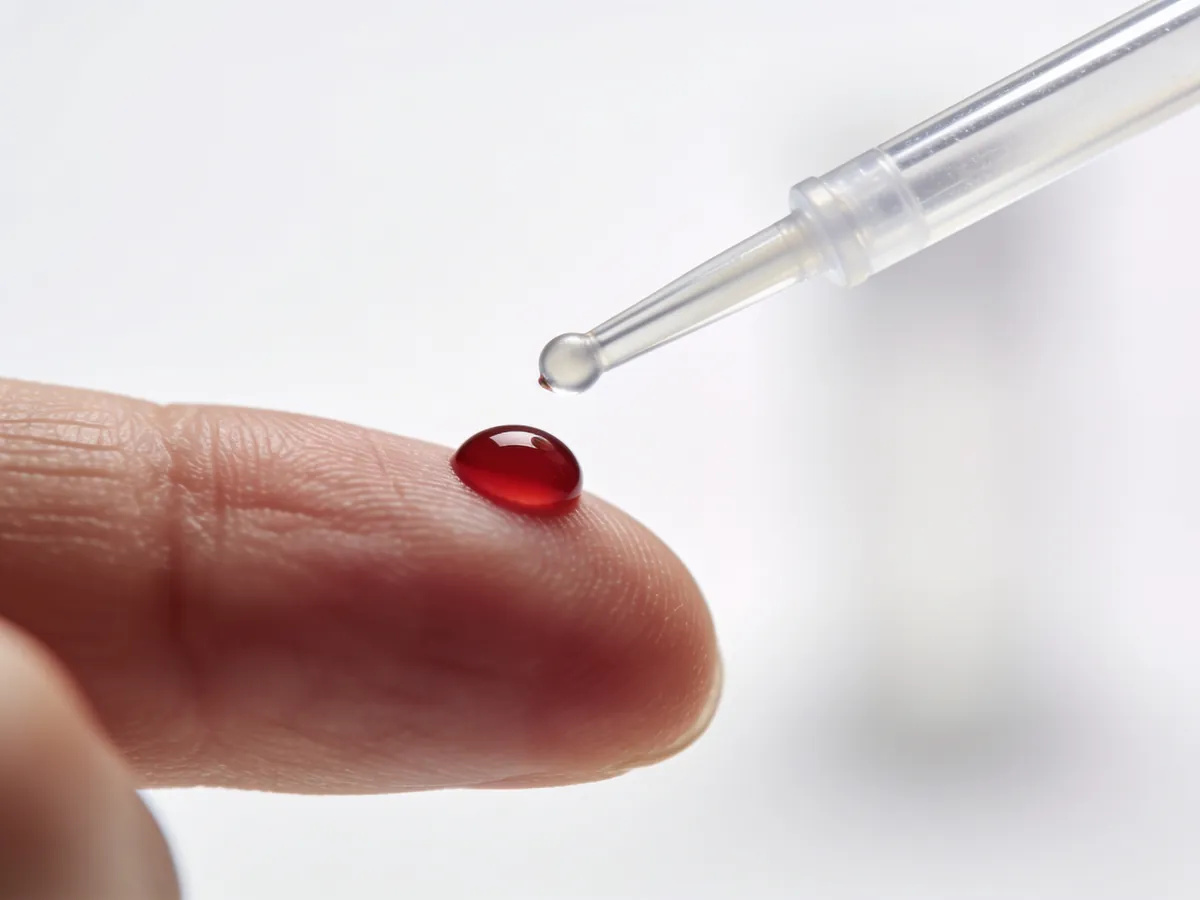
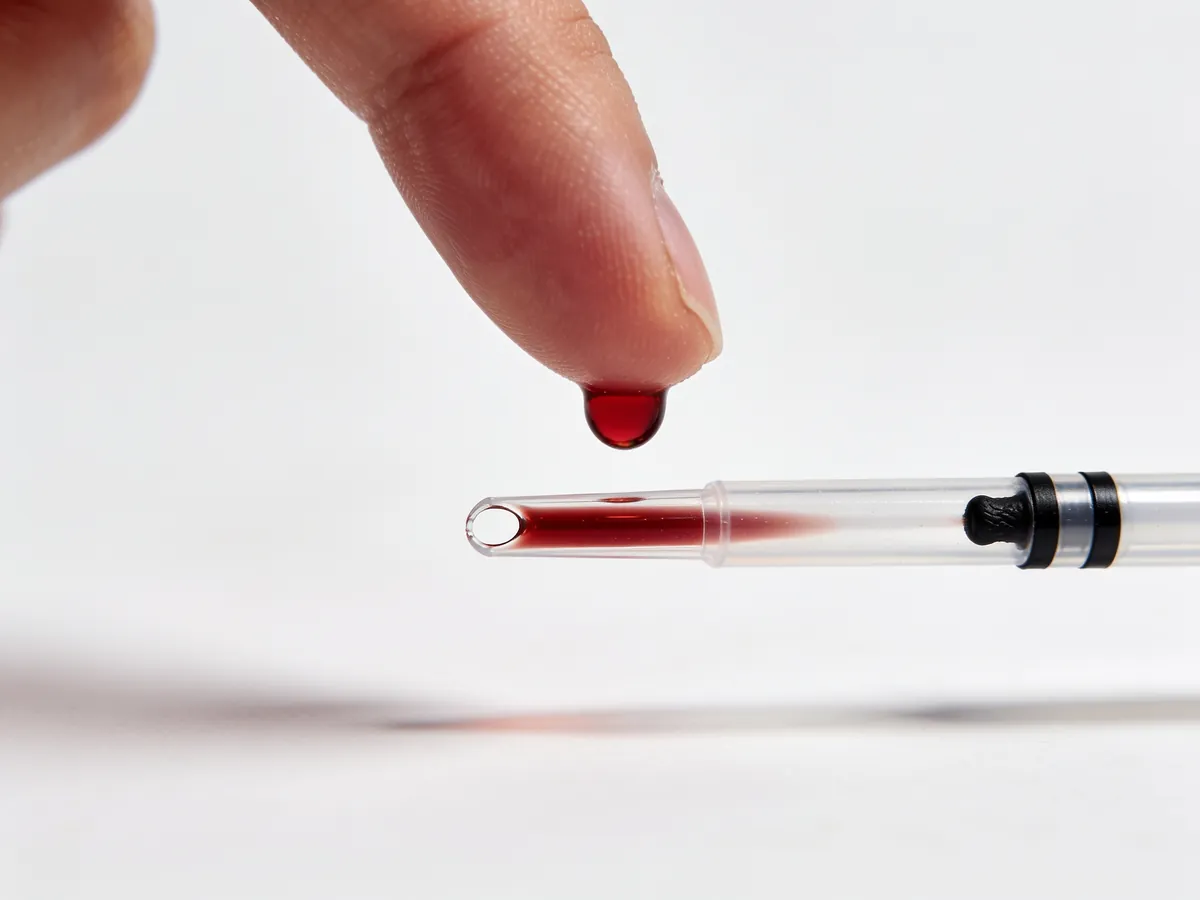
Passo a passo fiel ao guia do fabricante e foto da gota corrigida
- 8 passos conforme o guia do usuário do CardioChek PA: chip MEMo no topo,
  tira até APPLY SAMPLE, mãos lavadas e aquecidas, álcool, lanceta na
  lateral da ponta do dedo, primeira gota descartada, capilar até a faixa
  preta, aplicação sem encostar na tira, resultado em ~90 s, memória de 30
  resultados.
- Foto da gota refeita (polpa do dedo; a anterior mostrava a gota na unha).
- Fotos novas de álcool e capilar; ilustração de onde furar no lugar da
  foto da lanceta (a IA errava o local do furo).

diff --git a/src/components/cardio/sections.tsx b/src/components/cardio/sections.tsx
@@ -276,7 +276,8 @@ export function StepByStep() {
           Como medir em casa, do começo ao resultado.
         </h2>
         <p className="lead" data-reveal>
-          Seis passos simples. Na primeira vez leva uns 5 minutos. Depois, você faz no automático.
+          Oito passos, do jeito que o fabricante orienta. Na primeira vez leva uns 5 minutos.
+          Depois, você faz no automático.
         </p>
         <div className="steps-grid">
           {STEPS.map((s, i) => (
@@ -290,9 +291,16 @@ export function StepByStep() {
                 <div className="ph">
                   <img src={s.img} alt={s.title} loading="lazy" />
                 </div>
+              ) : "illustration" in s ? (
+                <div className="ph illus">
+                  <LancetIllustration />
+                </div>
               ) : (
                 <div className={`ph devph ${"device" in s ? s.device : ""}`}>
                   <Device />
+                  {"device" in s && s.device === "chip" && (
+                    <span className="arrow down" aria-hidden />
+                  )}
                   {"device" in s && s.device === "strip" && <span className="arrow" aria-hidden />}
                   {"device" in s && s.device === "result" && <span className="ring" aria-hidden />}
                 </div>
@@ -306,6 +314,86 @@ export function StepByStep() {
         </div>
       </div>
     </section>
+  );
+}
+
+/** Onde furar o dedo (como no desenho do guia do fabricante): lateral da polpa, nunca centro ou unha. */
+function LancetIllustration() {
+  return (
+    <svg
+      viewBox="0 0 400 300"
+      role="img"
+      aria-label="Fure a lateral da ponta do dedo, longe do centro e da unha"
+    >
+      <rect width="400" height="300" fill="#f4f2ed" />
+      {/* dedo visto pela palma */}
+      <path
+        d="M150 300 V120 C150 62 250 62 250 120 V300"
+        fill="#f1cdb3"
+        stroke="#c99a7c"
+        strokeWidth="2"
+      />
+      {[0, 1, 2, 3, 4].map((i) => (
+        <path
+          key={i}
+          d={`M${172 - i * 4} ${150 + i * 9} Q200 ${118 + i * 9} ${228 + i * 4} ${150 + i * 9}`}
+          fill="none"
+          stroke="#d9ad90"
+          strokeWidth="1.4"
+        />
+      ))}
+      <line x1="150" y1="212" x2="250" y2="212" stroke="#d9ad90" strokeWidth="1.6" />
+      {/* centro: evitar */}
+      <g transform="translate(200 128)">
+        <circle r="13" fill="none" stroke="#9b9993" strokeWidth="2" strokeDasharray="4 3" />
+        <path
+          d="M-6 -6 L6 6 M6 -6 L-6 6"
+          stroke="#9b9993"
+          strokeWidth="2.4"
+          strokeLinecap="round"
+        />
+      </g>
+      {/* laterais: onde furar */}
+      <circle cx="158" cy="132" r="9" fill="#c4161c" opacity=".18" />
+      <circle cx="242" cy="132" r="9" fill="#c4161c" opacity=".18" />
+      <circle cx="242" cy="132" r="4.5" fill="#c4161c" />
+      {/* lanceta chegando pela lateral */}
+      <g transform="translate(262 132)">
+        <rect
+          x="18"
+          y="-11"
+          width="70"
+          height="22"
+          rx="5"
+          fill="#fff"
+          stroke="#16181b"
+          strokeWidth="2"
+        />
+        <rect x="6" y="-4" width="12" height="8" rx="2" fill="#16181b" />
+        <path d="M-2 0 H6" stroke="#16181b" strokeWidth="2" />
+      </g>
+      <g fontFamily="IBM Plex Sans, sans-serif" fontSize="16" fill="#3c4249">
+        <text x="300" y="176" textAnchor="middle">
+          lateral da ponta
+        </text>
+        <text x="300" y="196" textAnchor="middle" fill="#c4161c" fontWeight="600">
+          fure aqui
+        </text>
+        <text x="96" y="92" textAnchor="middle">
+          centro e unha:
+        </text>
+        <text x="96" y="112" textAnchor="middle" fontWeight="600">
+          evite
+        </text>
+      </g>
+      <path
+        d="M118 100 Q160 104 186 124"
+        fill="none"
+        stroke="#9b9993"
+        strokeWidth="1.4"
+        strokeDasharray="3 3"
+      />
+    </svg>
   );
 }
 

diff --git a/src/lib/store-content.ts b/src/lib/store-content.ts
@@ -9,7 +9,7 @@ import imgAcademia from "@/assets/academia.webp";
 import imgDieta from "@/assets/dieta.webp";
 import imgCasal from "@/assets/casal.webp";
 import imgMaos from "@/assets/passo-maos.webp";
-import imgLanceta from "@/assets/passo-lanceta.webp";
+import imgAlcool from "@/assets/passo-alcool.webp";
 import imgCapilar from "@/assets/passo-capilar.webp";
 import imgAnotar from "@/assets/passo-anotar.webp";
 
@@ -53,39 +53,54 @@ export const PERSONAS = [
   },
 ] as const;
 
-/** Passo a passo de uma medição. `img: null` = passo com o aparelho (usa a foto oficial animada). */
+/**
+ * Passo a passo de uma medição, conforme o guia do usuário do CardioChek PA (PTS Diagnostics).
+ * `img: null` = passo com o aparelho (foto oficial animada) ou ilustração.
+ */
 export const STEPS = [
   {
-    img: imgMaos,
-    title: "Lave e seque as mãos",
-    text: "Água morna ajuda o sangue a circular na ponta do dedo. Seque bem: água dilui a gota.",
+    img: null,
+    device: "chip",
+    title: "Prepare o aparelho",
+    text: "Coloque o aparelho numa mesa firme, longe de sol direto. Encaixe no topo o chip MEMo que vem na caixa de tiras: ele ajusta o aparelho para aquele lote.",
   },
   {
     img: null,
     device: "strip",
-    title: "Ligue e coloque a tira",
-    text: "Encaixe a tira de painel lipídico na entrada da parte de baixo. O aparelho reconhece o teste pelo chip do lote.",
+    title: "Coloque a tira",
+    text: "Encaixe a tira até o fim na entrada de baixo. Quando a tela mostrar APPLY SAMPLE, o aparelho está pronto para a gota.",
   },
   {
-    img: imgLanceta,
-    title: "Fure a ponta do dedo",
-    text: "Use a lanceta descartável na lateral da ponta do dedo. É uma picada rápida, bem menor que a de um exame de veia.",
+    img: imgMaos,
+    title: "Lave e aqueça as mãos",
+    text: "Lave com água morna e sabão e seque bem. Deixe o braço um pouco para baixo: isso ajuda o sangue a chegar na ponta do dedo.",
+  },
+  {
+    img: imgAlcool,
+    title: "Limpe com álcool",
+    text: "Passe o lenço com álcool na ponta do dedo e espere secar por completo. Dedo molhado dilui a gota e altera o resultado.",
+  },
+  {
+    img: null,
+    illustration: "lancet",
+    title: "Fure a lateral do dedo",
+    text: "Use uma lanceta descartável na lateral da ponta do dedo, não no centro nem perto da unha. Dói menos e a gota se forma melhor.",
   },
   {
     img: imgCapilar,
-    title: "Colete uma gota",
-    text: "Encoste o capilar na gota (40µL) e aplique na tira. Só isso de sangue.",
+    title: "Colete a segunda gota",
+    text: "Limpe a primeira gota com gaze. Com o dedo para baixo, encoste o capilar na segunda gota até o sangue chegar à faixa preta, sem bolhas.",
   },
   {
     img: null,
     device: "result",
-    title: "Leia o resultado em até 90s",
-    text: "Colesterol total, HDL, triglicérides e glicose aparecem na tela. LDL e razão CT/HDL são calculados na hora.",
+    title: "Aplique e espere 90 segundos",
+    text: "Segure o capilar sobre a janela da tira, sem encostar, e aperte o êmbolo devagar. Em cerca de 90 segundos os resultados aparecem na tela.",
   },
   {
     img: imgAnotar,
     title: "Anote e leve ao médico",
-    text: "Registre a data e os números. Com o histórico na mão, a conversa com o médico rende muito mais.",
+    text: "O aparelho guarda até 30 resultados na memória, com data e hora. Anote também e leve o histórico na próxima consulta.",
   },
 ] as const;
 

diff --git a/src/components/cardio/cardio.css b/src/components/cardio/cardio.css
@@ -556,3 +556,11 @@
   .cm .slide-h .txt > * { opacity: 1; transform: none; }
   .cm .hero-nav button.on i b { transform: scaleX(1); }
 }
+
+/* passo a passo em 4 colunas (8 passos) + ilustração e seta do chip */
+.cm .steps-grid { grid-template-columns: repeat(4, 1fr); }
+@media (max-width: 1100px) { .cm .steps-grid { grid-template-columns: repeat(2, 1fr); } }
+@media (max-width: 560px) { .cm .steps-grid { grid-template-columns: 1fr; } }
+.cm .stp .ph.illus svg { width: 100%; height: 100%; display: block; }
+.cm .stp .arrow.down { top: 2%; bottom: auto; rotate: 225deg; }
+.cm .stp .ph.devph.chip .dev { top: 14%; bottom: 0%; }
